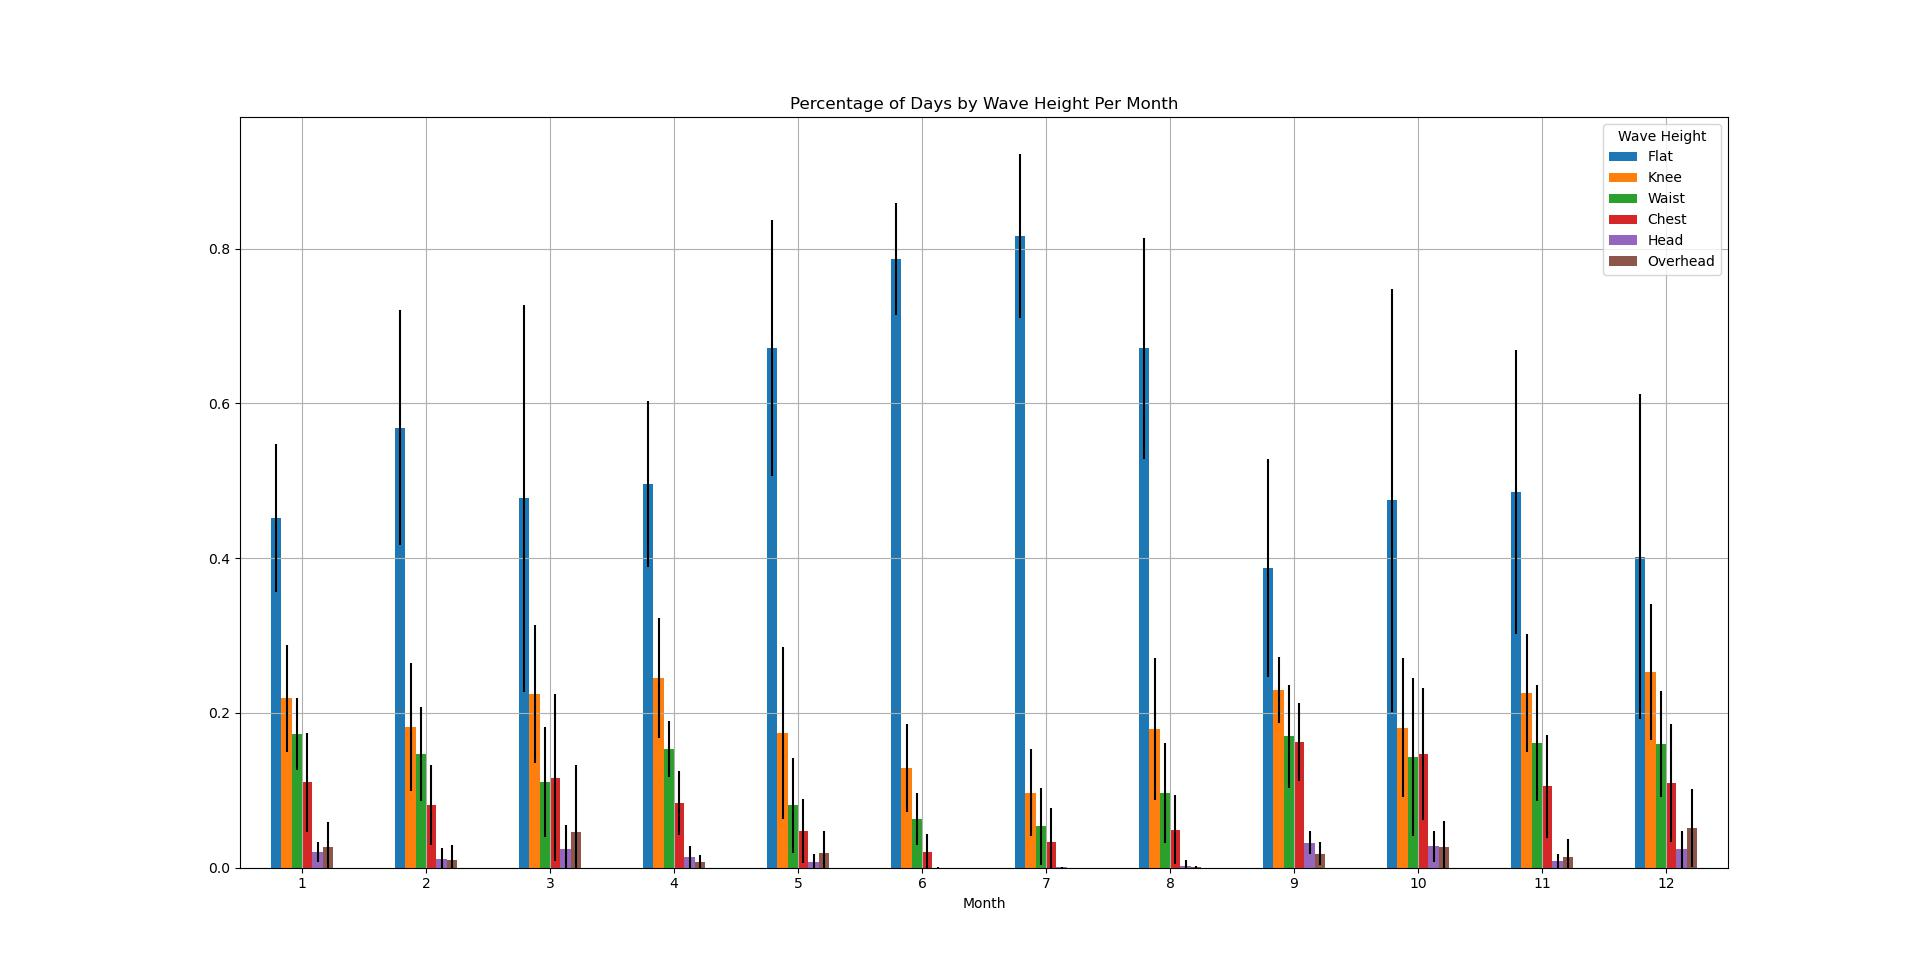
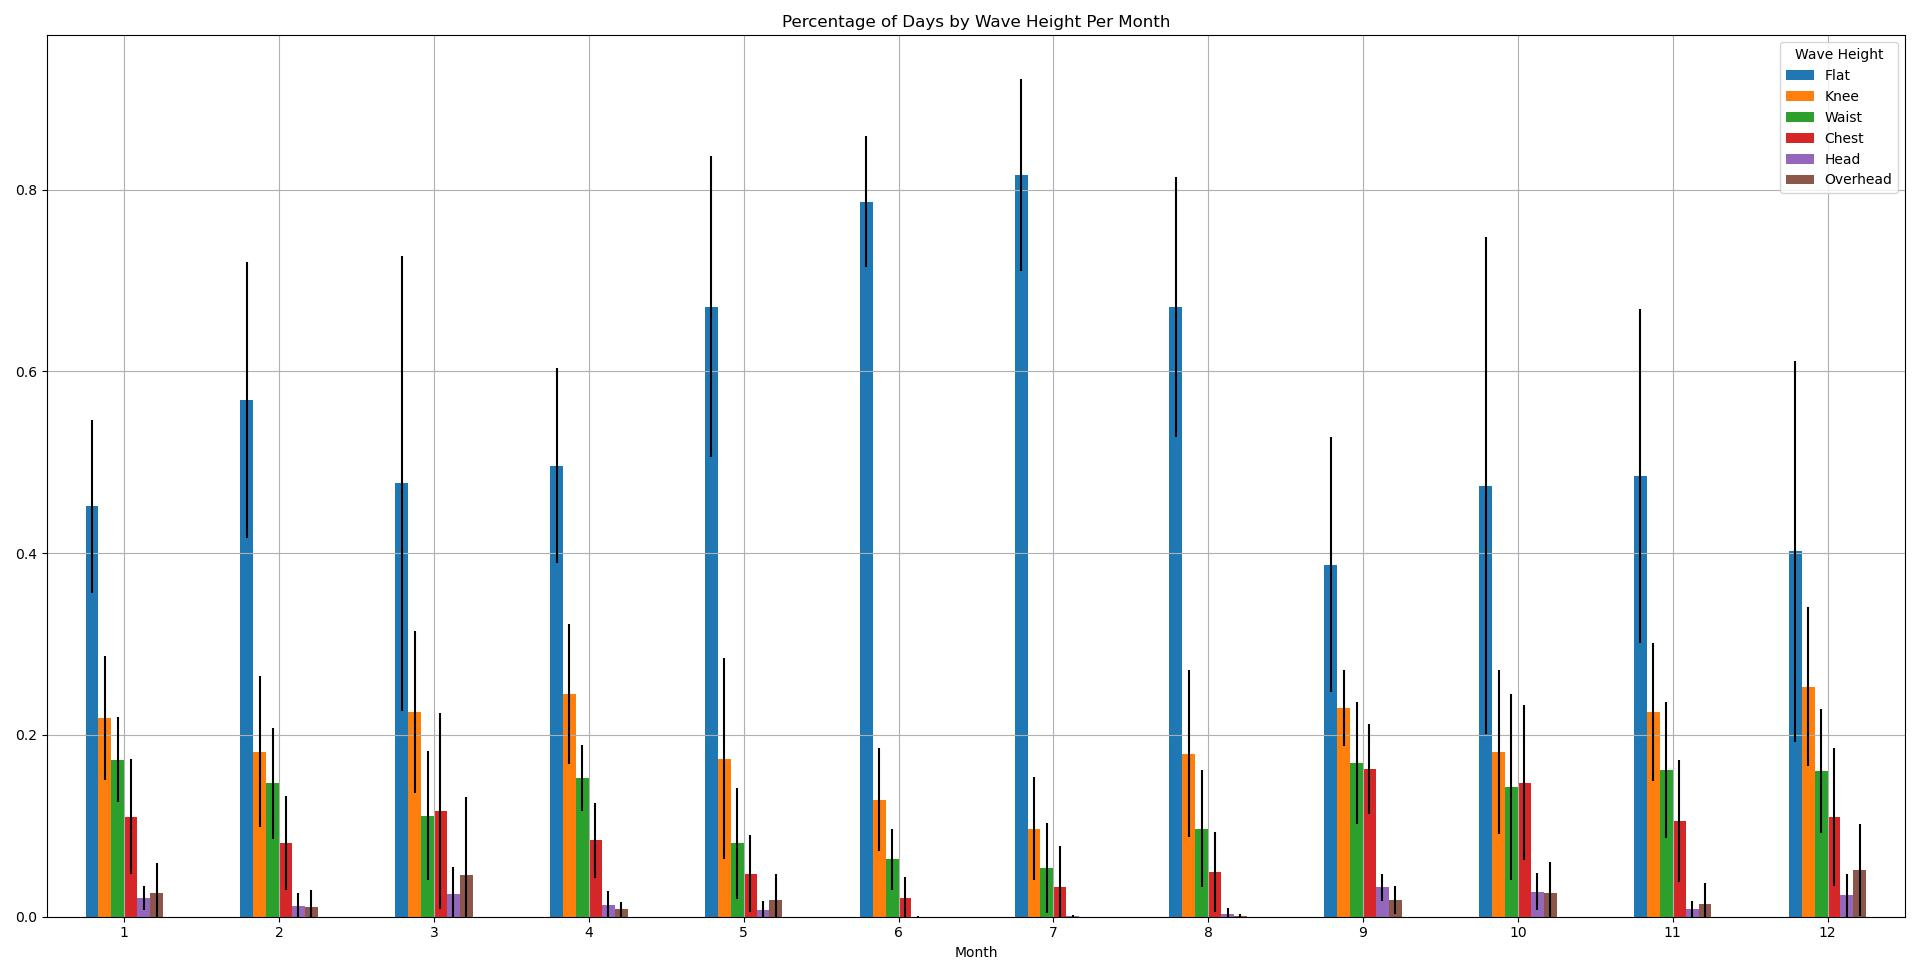
Updated forecat for 12/13

diff --git a/_posts/2025-12-12-Model-Divergence.md b/_posts/2025-12-12-Model-Divergence.md
@@ -21,7 +21,7 @@ Courtesy of tropicaltidbits.com
 
 I used the MSLP anomaly charts here rather than surface wind because it's a little bit easier to see what's going on (in my opinion). Starting with the first plot, this is the GFS surface anomaly chart, where you can see two large areas of high pressure (red) over the Mid-West and Central Atlantic. Between these areas of high pressure is a weak area of low pressure (blue). I added red arrows to show wind direction. The second chart is the ECMWF model and shows a similar setup, but one where the area of low pressure is much better developed (although still weak).
 
-This area of low pressure is expected to move off the North Carolina coast and track northeast (and give us snow). Currently, no model is suggesting we see swellf from this system. If the wind field is as the models describe it currently, we won't. However, this isn't all that dissimilar of a scenario compared to what we saw Sunday 12/7. I think there is a lower probability of decent surf from this system, but there is a chance that we see some waves. That said, it would be very short lived due to that giant area of high pressure moving in swiftly behind it.
+This area of low pressure is expected to move off the North Carolina coast and track northeast (and give us snow). Currently, no model is suggesting we see swellf from this system. If the wind field is as the models describe it currently, we won't. I think there is a lower probability of decent surf from this system, but there is a chance that we see some waves. That said, it would be very short lived due to that giant area of high pressure moving in swiftly behind it.
 
 ## Looking at 12/19
 
@@ -37,7 +37,7 @@ ECMWF Model. Courtesy of tropicaltidbits.com
 
 For these, I went back to the wind charts as theyshow the situation clearly enough. Here we have two completely different versions of events for 12/19. The GFS model run shows a scenario with no swell and relatively minor impacts to our area from a somewhat weak area of low pressure over the Great Lakes (too far North) and a somewhat strong but too far south area of high pressure off South Carolina. Again, this is a bad scenario.
 
-The Euro is showing a much more fruitful scenario, with a powerful low pressure system far north of the Great Lakes interacting with a large High Pressure system southeast of the Maritimes. We can seee a fairly large fetch of S-SSW winds that would generate some decent, likely mid-period swell for our region.
+The Euro is showing a much more fruitful scenario, with a powerful low pressure system far north of the Great Lakes interacting with a large High Pressure system southeast of the Maritimes. We can see a fairly large fetch of S-SSW winds that would generate some decent, likely mid-period swell for our region.
 
 Early runs of the GFS look more like current runs of the ECMWF. Hopefully that's the case.
 

diff --git a/_posts/2025-12-12-New-Jersey-Consistency.md b/_posts/2025-12-12-New-Jersey-Consistency.md
@@ -9,7 +9,7 @@ title: Does History Tell Us That This Year Sucks?
 
 ## Data and Methodology
 
-![PercentWaveHeightByMonth](/assets/images/PctWaveHeights.jpeg)
+![Wave Consistency w/ Error Bars](/assets/images/wave_height_per_month.jpeg)
 
 Here's the plot of percentage of days by wave height per month. In order to get this data, I downloaded historic buoy spectrum data, took wind waves out of the spectrum, calculated wave heights by integrating the energy/frequency values, and converted to feet from meters. I then used the standard buoy data to assign wave direction to each corresponding time stamp by making the assumption that the mean wave direction was going to be the swell direction (not always the case). After that, I applied an algorithm to convert buoy heights to rough breaking wave heights based on my experience forecasting. Lastly, I aggregated the data by month, divided raw counts by the sum of raw counts to get percentages, and plotted them to create the above figure. I'm comfortable enough with the methodology to say that this should be fairly accurate.
 
@@ -27,9 +27,7 @@ It's a bit of a slap in the face to see greater than 50% for September through J
 
 December thus far has had a surfable day on 12/3 and another on 12/10 with 12/11 fading too quick to really call it surfable. The swell on the 19th is looking iffy, but let's say it happens, that's one or two days there, and maybe a day on the 20th and 25th. Four days. 6/30 would be 20%. We're really not even seeing blown out surf, just none. This is coming off a right tailed U-Wind Anomaly for the majority of November (tons of west wind all month).
 
-I will probably take the time to plot standard deviation bars on here at some point. That would show us just how bad the year has been so far. I'm feeling pretty burned out with the lack of surf, so that's too much effort right now. Either way, we're way off the mean.
 
-![Wave Consistency w/ Error Bars](/assets/images/wave_height_per_month.jpeg)
 
 ## Conclusion
 
